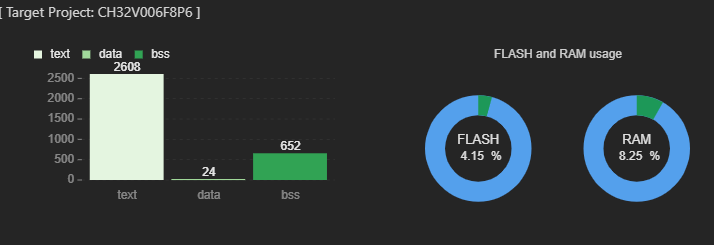
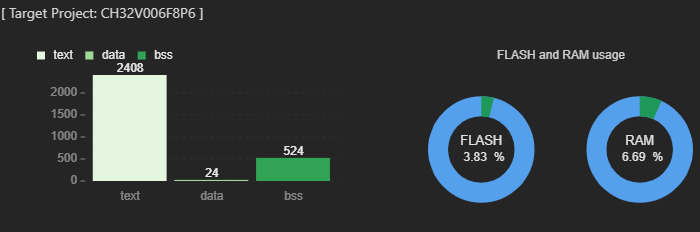
UARTのIRQもコンパイルスイッチを追加

diff --git a/src/CH32V006F8P6/User/drv_uasrt.c b/src/CH32V006F8P6/User/drv_uasrt.c
@@ -12,6 +12,7 @@
 #include "drv_uasrt.h"
 #include "app_main.h"
 
+#ifdef DEBUG_UART_USE
 void USART1_IRQHandler(void) __attribute__((interrupt("WCH-Interrupt-fast")));
 
 static uint8_t s_rx_buf[USART_RX_BUF_SIZE] = {0}; // UASRT受信リングバッファ
@@ -102,3 +103,4 @@ void hw_usart_init(void)
     NVIC_Init(&nvic);
     USART_Cmd(USART1, ENABLE);
 }
+#endif
